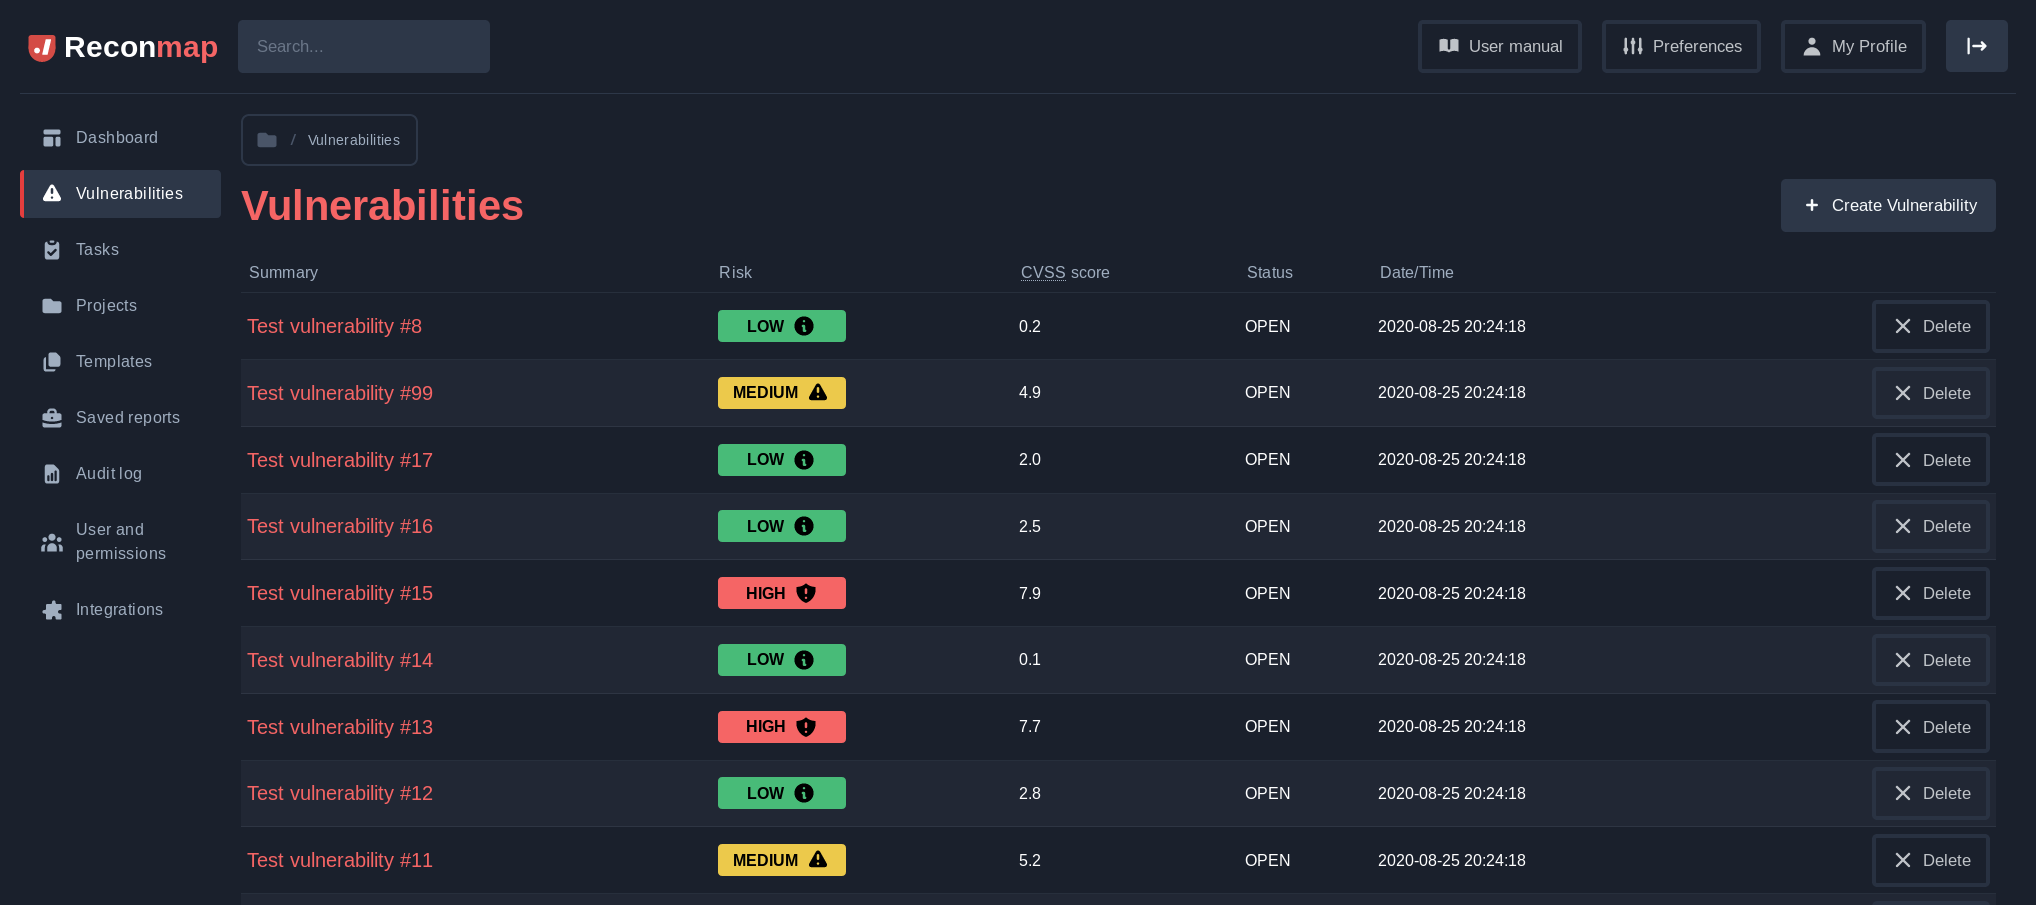
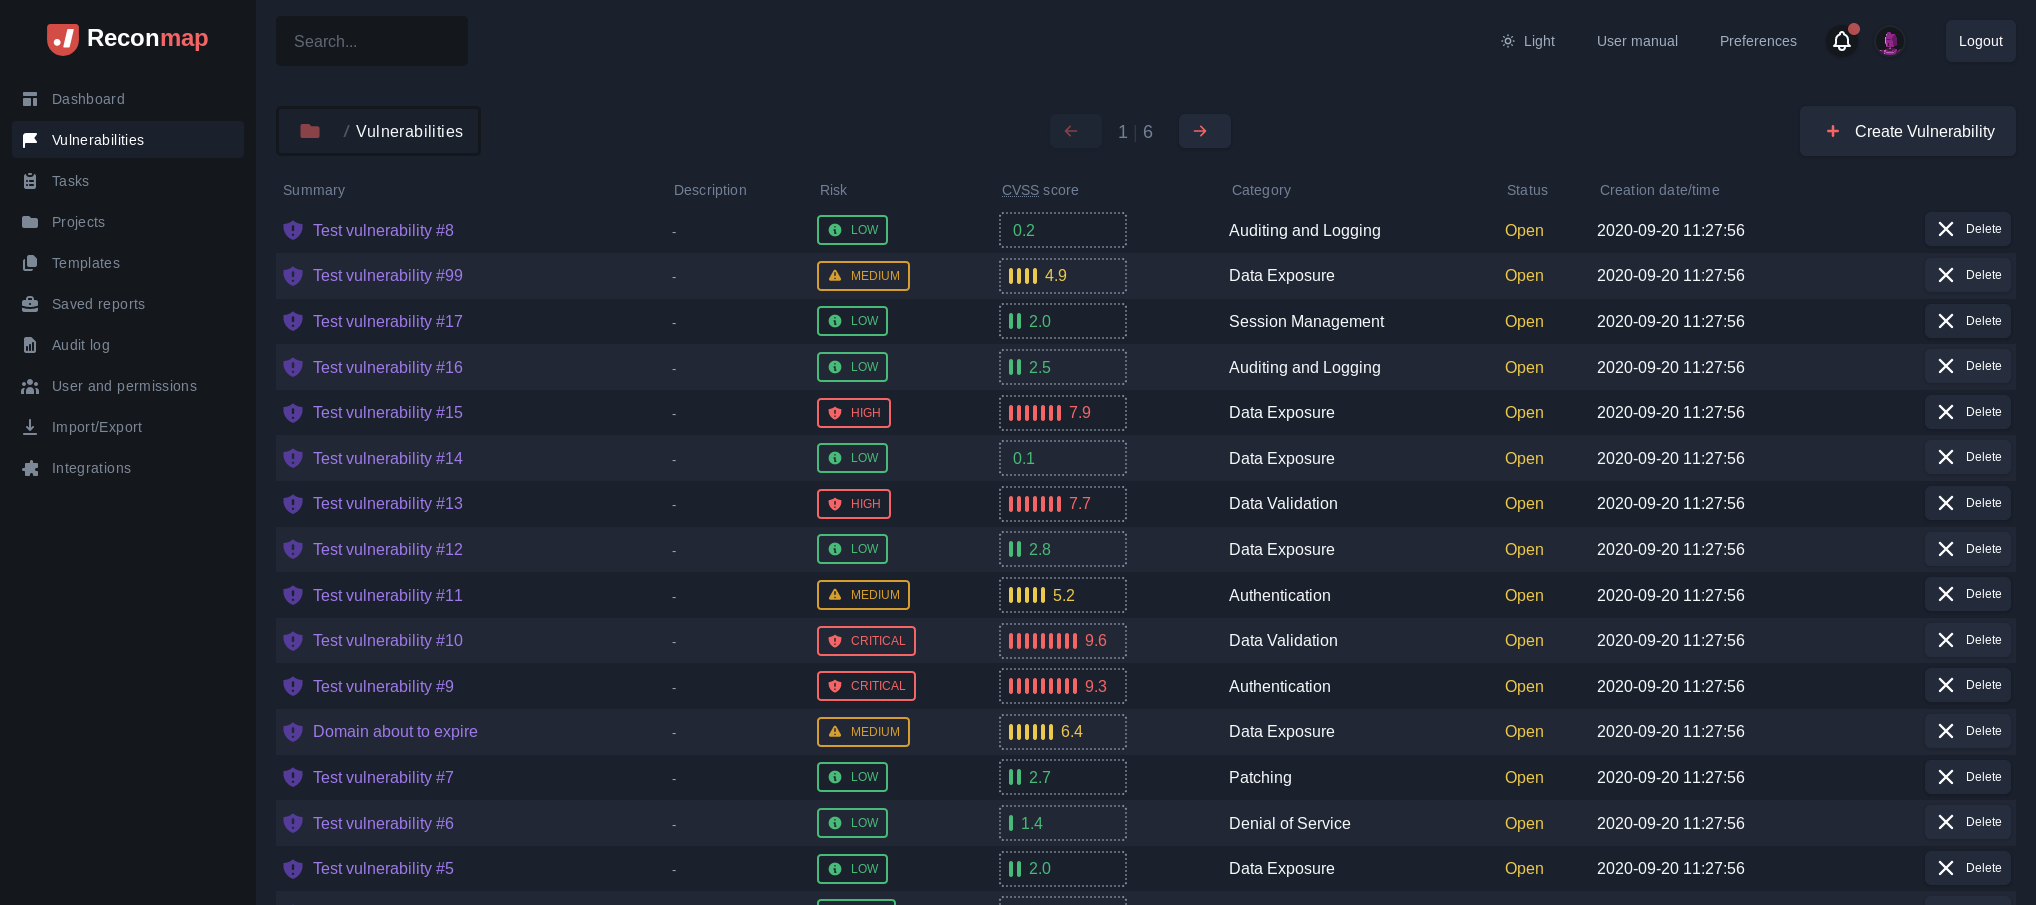
Add new dashboard page as well as updated screenshots of other sections

diff --git a/user-manual/dashboard.md b/user-manual/dashboard.md
@@ -1,0 +1,16 @@
+---
+title: Dashboard
+parent: User manual
+---
+
+## {{page.title}}
+
+The dashboard is what welcomes the user after logging in. The Reconmap dashboard is made of widgets that present at a glance statical information about the user or the vulnerabilities found.
+
+![Dashboard view](/images/screenshots/dashboard-stats.png)
+
+Available widgets:
+- User activity over time
+- Vulnerabilities grouped by risk (none, low, medium, high, critical)
+- Vulnerabilities grouped by categories (error reporting, data validation, configuration, denial of service, etc...)
+
